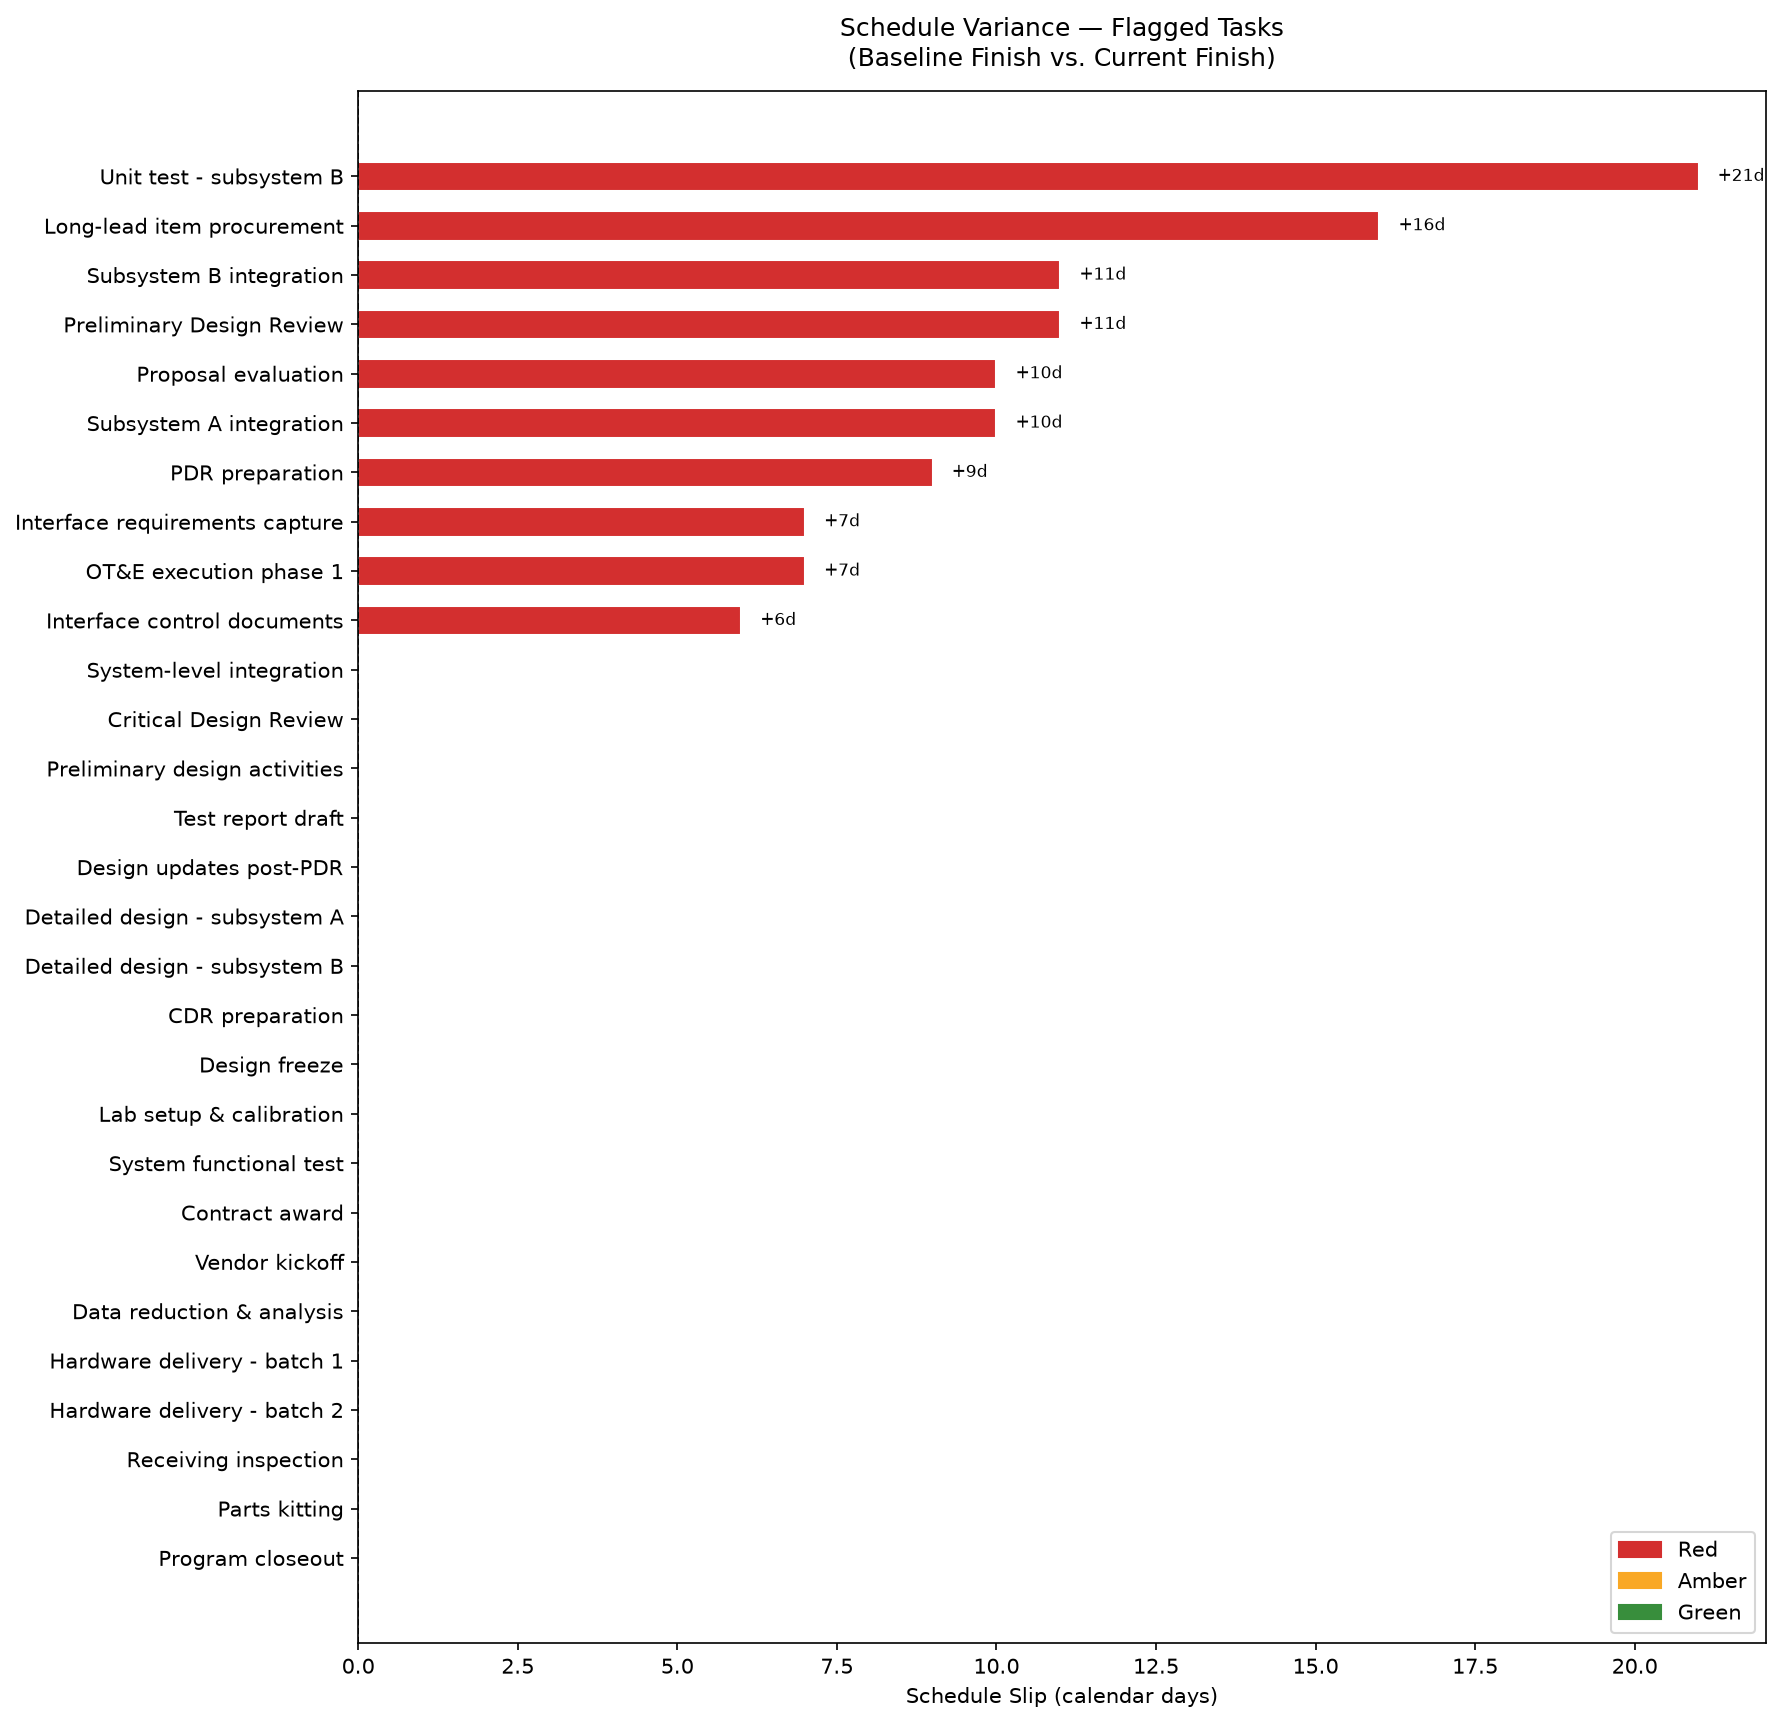
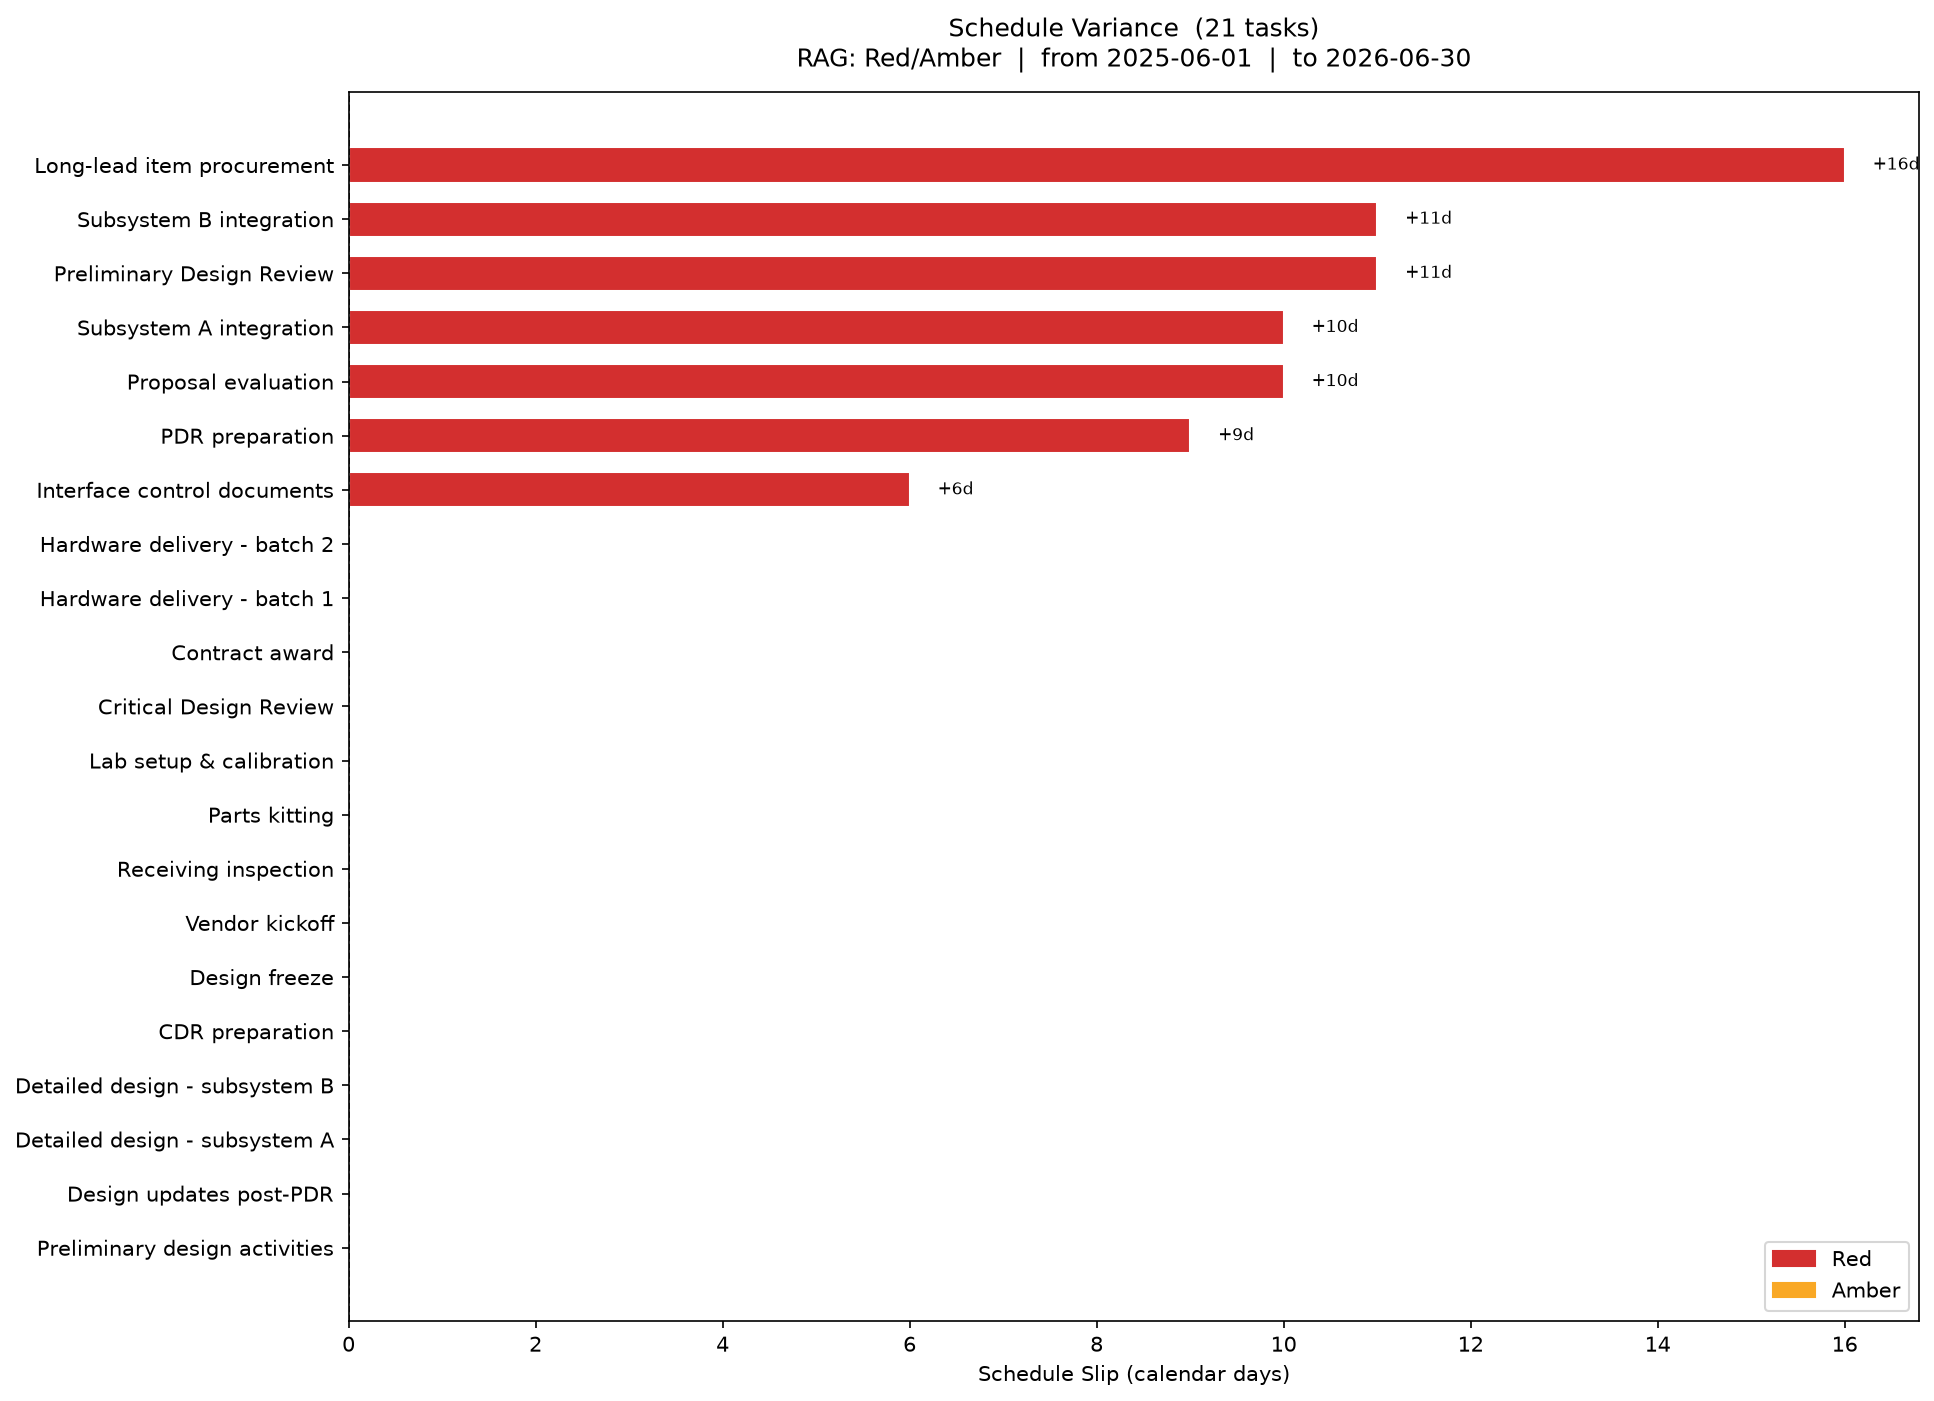
feat: add chart filtering by RAG status and date range
Adds --chart-rag and --date-from/--date-to CLI flags so the variance
chart can be scoped to any combination of Red/Amber/Green tasks and/or
a finish-date window. Also fixes figure height scaling so all tasks
render without being clipped.

  --chart-rag red,amber   default; all flagged tasks
  --chart-rag all         every task including Green
  --chart-rag red         Red only
  --date-from YYYY-MM-DD  tasks finishing on or after this date
  --date-to   YYYY-MM-DD  tasks finishing on or before this date

Filters are composable: --chart-rag red --date-from 2025-06-01 works.
The RAG table and CSV are unaffected by chart filters.

diff --git a/src/report.py b/src/report.py
@@ -4,7 +4,12 @@ Generate the RAG status table and variance chart.
 Public API
 ----------
     build_rag_table(df, as_of) -> pd.DataFrame
-    save_report(df, as_of, out_dir)
+    save_report(df, as_of, out_dir, chart_rag=None, date_from=None, date_to=None)
+
+chart_rag  : list of RAG statuses to include in the chart, e.g. ["Red"],
+             ["Red", "Amber"], or ["Red", "Amber", "Green"]. Default: ["Red", "Amber"].
+date_from  : only include tasks whose finish date >= this date (datetime-like).
+date_to    : only include tasks whose finish date <= this date (datetime-like).
 """
 
 from datetime import date
@@ -23,6 +28,8 @@ from analyzer import (
 )
 
 RAG_COLORS = {"Red": "#d32f2f", "Amber": "#f9a825", "Green": "#388e3c"}
+_RAG_ORDER  = {"Red": 0, "Amber": 1, "Green": 2}
+_DEFAULT_CHART_RAG = ["Red", "Amber"]
 
 
 def build_rag_table(df: pd.DataFrame, as_of: date) -> pd.DataFrame:
@@ -78,29 +85,72 @@ def _print_summary(rag_df: pd.DataFrame):
     print(flagged.to_string(index=False))
 
 
-def _save_variance_chart(rag_df: pd.DataFrame, out_dir: Path):
-    flagged = rag_df[rag_df["RAG"] != "Green"].copy()
-    flagged = flagged.sort_values("slip_days", ascending=True)
+def _apply_chart_filters(
+    rag_df: pd.DataFrame,
+    chart_rag: list[str],
+    date_from,
+    date_to,
+) -> pd.DataFrame:
+    """Return the subset of rag_df that passes RAG and date-range filters."""
+    subset = rag_df[rag_df["RAG"].isin(chart_rag)].copy()
 
-    if flagged.empty:
-        print("  No flagged tasks — skipping chart.")
+    if date_from is not None:
+        subset = subset[subset["finish"] >= pd.Timestamp(date_from)]
+    if date_to is not None:
+        subset = subset[subset["finish"] <= pd.Timestamp(date_to)]
+
+    # Sort: Red → Amber → Green, then by descending slip within each group
+    subset["_rag_order"] = subset["RAG"].map(_RAG_ORDER)
+    subset = subset.sort_values(["_rag_order", "slip_days"], ascending=[False, True])
+    subset = subset.drop(columns=["_rag_order"])
+    return subset
+
+
+def _save_variance_chart(
+    rag_df: pd.DataFrame,
+    out_dir: Path,
+    chart_rag: list[str] | None = None,
+    date_from=None,
+    date_to=None,
+):
+    if chart_rag is None:
+        chart_rag = _DEFAULT_CHART_RAG
+
+    subset = _apply_chart_filters(rag_df, chart_rag, date_from, date_to)
+
+    if subset.empty:
+        print("  No tasks match the chart filters — skipping chart.")
         return
 
-    fig, ax = plt.subplots(figsize=(12, max(6, len(flagged) * 0.4)))
+    n = len(subset)
+    fig, ax = plt.subplots(figsize=(13, max(8, n * 0.45)))
 
-    colors = [RAG_COLORS[r] for r in flagged["RAG"]]
-    bars = ax.barh(flagged["name"], flagged["slip_days"], color=colors, edgecolor="white", height=0.6)
+    colors = [RAG_COLORS[r] for r in subset["RAG"]]
+    bars = ax.barh(subset["name"], subset["slip_days"], color=colors, edgecolor="white", height=0.65)
 
     ax.set_xlabel("Schedule Slip (calendar days)")
-    ax.set_title("Schedule Variance — Flagged Tasks\n(Baseline Finish vs. Current Finish)", pad=12)
+
+    # Build a descriptive subtitle from active filters
+    rag_label = "/".join(chart_rag)
+    parts = [f"RAG: {rag_label}"]
+    if date_from:
+        parts.append(f"from {date_from}")
+    if date_to:
+        parts.append(f"to {date_to}")
+    filter_note = "  |  ".join(parts)
+    ax.set_title(
+        f"Schedule Variance  ({n} tasks)\n{filter_note}",
+        pad=12,
+    )
     ax.axvline(0, color="black", linewidth=0.8, linestyle="--")
 
-    # Legend
-    patches = [mpatches.Patch(color=RAG_COLORS[r], label=r) for r in ["Red", "Amber", "Green"]]
+    # Legend — only include RAG statuses that are actually present
+    present = [r for r in ["Red", "Amber", "Green"] if r in chart_rag]
+    patches = [mpatches.Patch(color=RAG_COLORS[r], label=r) for r in present]
     ax.legend(handles=patches, loc="lower right")
 
     # Value labels
-    for bar, val in zip(bars, flagged["slip_days"]):
+    for bar, val in zip(bars, subset["slip_days"]):
         if val > 0:
             ax.text(bar.get_width() + 0.3, bar.get_y() + bar.get_height() / 2,
                     f"+{val:.0f}d", va="center", fontsize=8)
@@ -109,14 +159,21 @@ def _save_variance_chart(rag_df: pd.DataFrame, out_dir: Path):
     path = out_dir / "variance_chart.png"
     fig.savefig(path, dpi=150, bbox_inches="tight")
     plt.close(fig)
-    print(f"  Saved {path}")
+    print(f"  Saved {path}  ({n} tasks)")
 
 
-def save_report(df: pd.DataFrame, as_of: date, out_dir: Path):
+def save_report(
+    df: pd.DataFrame,
+    as_of: date,
+    out_dir: Path,
+    chart_rag: list[str] | None = None,
+    date_from=None,
+    date_to=None,
+):
     out_dir = Path(out_dir)
     out_dir.mkdir(parents=True, exist_ok=True)
 
     rag_df = build_rag_table(df, as_of)
     _print_summary(rag_df)
     _save_rag_csv(rag_df, out_dir)
-    _save_variance_chart(rag_df, out_dir)
+    _save_variance_chart(rag_df, out_dir, chart_rag=chart_rag, date_from=date_from, date_to=date_to)

diff --git a/src/main.py b/src/main.py
@@ -4,7 +4,21 @@ Program Schedule Health Dashboard — CLI entry point.
 Usage
 -----
     python src/main.py --input data/sample_schedule.xml
-    python src/main.py --input data/sample_schedule.xml --as-of 2026-06-12 --out-dir docs/
+    python src/main.py --input data/sample_schedule.xml --as-of 2026-06-12
+    python src/main.py --input data/sample_schedule.xml --chart-rag all
+    python src/main.py --input data/sample_schedule.xml --chart-rag red
+    python src/main.py --input data/sample_schedule.xml --chart-rag red,amber
+    python src/main.py --input data/sample_schedule.xml --date-from 2025-06-01 --date-to 2026-12-31
+
+--chart-rag   Comma-separated RAG statuses to include in the variance chart.
+              Accepted values: red, amber, green, or "all".
+              Default: red,amber  (all flagged tasks, no Green).
+
+--date-from   Restrict the chart to tasks whose finish date is on or after
+              this date (YYYY-MM-DD). Does not affect the RAG table or CSV.
+
+--date-to     Restrict the chart to tasks whose finish date is on or before
+              this date (YYYY-MM-DD). Does not affect the RAG table or CSV.
 """
 
 import argparse
@@ -18,24 +32,59 @@ sys.path.insert(0, str(Path(__file__).parent))
 from parser import parse_schedule
 from report import save_report
 
+_VALID_RAG = {"red": "Red", "amber": "Amber", "green": "Green"}
+
+
+def _parse_chart_rag(raw: str) -> list[str]:
+    if raw.lower() == "all":
+        return ["Red", "Amber", "Green"]
+    statuses = []
+    for token in raw.split(","):
+        token = token.strip().lower()
+        if token not in _VALID_RAG:
+            raise argparse.ArgumentTypeError(
+                f"Unknown RAG value '{token}'. Use: red, amber, green, or all."
+            )
+        statuses.append(_VALID_RAG[token])
+    return statuses
+
 
 def main():
-    p = argparse.ArgumentParser(description="Program Schedule Health Dashboard")
+    p = argparse.ArgumentParser(
+        description="Program Schedule Health Dashboard",
+        formatter_class=argparse.RawDescriptionHelpFormatter,
+    )
     p.add_argument("--input", required=True, help="Path to MS Project XML export")
     p.add_argument("--as-of", default=str(date.today()),
                    help="Analysis date (YYYY-MM-DD). Defaults to today.")
     p.add_argument("--out-dir", default="docs/",
-                   help="Directory for output files (CSV, PNG). Defaults to docs/.")
+                   help="Output directory for CSV and PNG. Defaults to docs/.")
+    p.add_argument("--chart-rag", default="red,amber",
+                   help="RAG statuses to show in the chart: red, amber, green, or all. "
+                        "Comma-separated. Default: red,amber.")
+    p.add_argument("--date-from", default=None,
+                   help="Chart: only tasks with finish >= this date (YYYY-MM-DD).")
+    p.add_argument("--date-to", default=None,
+                   help="Chart: only tasks with finish <= this date (YYYY-MM-DD).")
     args = p.parse_args()
 
     as_of = date.fromisoformat(args.as_of)
-    print(f"Parsing {args.input}  (as-of {as_of})")
 
+    try:
+        chart_rag = _parse_chart_rag(args.chart_rag)
+    except argparse.ArgumentTypeError as e:
+        p.error(str(e))
+
+    date_from = date.fromisoformat(args.date_from) if args.date_from else None
+    date_to   = date.fromisoformat(args.date_to)   if args.date_to   else None
+
+    print(f"Parsing {args.input}  (as-of {as_of})")
     df = parse_schedule(args.input)
     print(f"  {len(df)} tasks loaded ({df['is_summary'].sum()} summary, "
           f"{df['is_milestone'].sum()} milestones)")
 
-    save_report(df, as_of, Path(args.out_dir))
+    save_report(df, as_of, Path(args.out_dir),
+                chart_rag=chart_rag, date_from=date_from, date_to=date_to)
 
 
 if __name__ == "__main__":